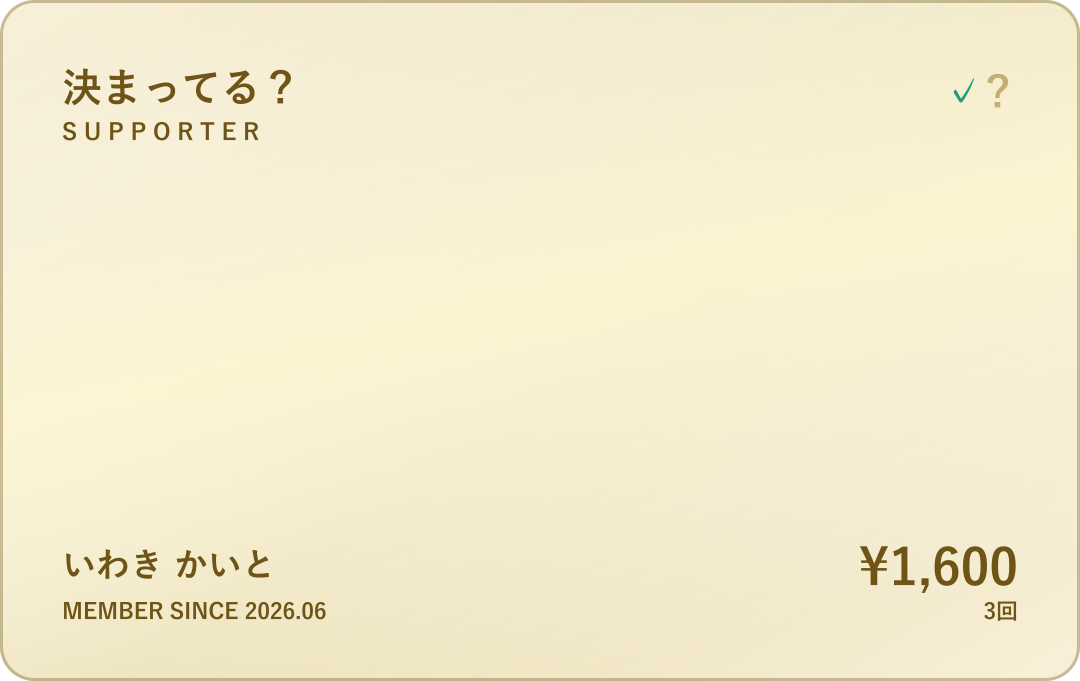
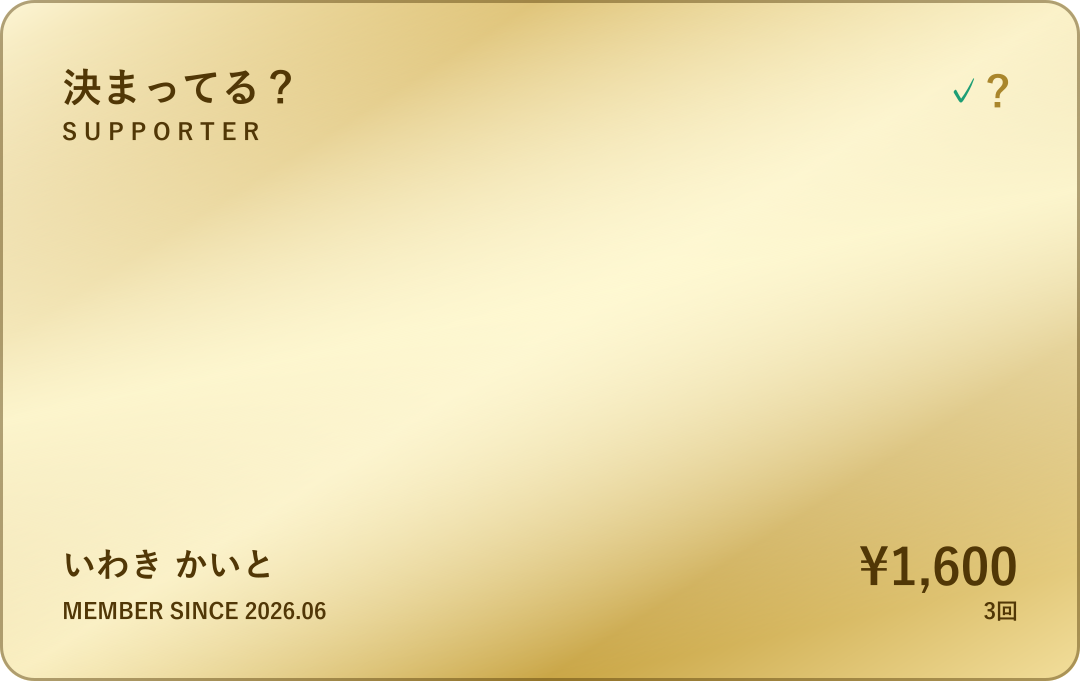
ゴールドを金属らしくする（v0.21.1）
ノーマルとの違いが分かりにくかった。彩度を上げるだけでは
「黄色い紙」にしかならない。金属に見えるのは色そのものではなく、
明と暗が何度か折り返すところなので、紙の濃淡を1回から4回に増やした
（明→暗→明→暗→明）。箔も濃くして、紙との差を広げている。

ノーマルとの隔たりは ΔE 5.8（並べないと分からない）から 30 前後まで開いた。

暗い帯は斜めに走るので、字のある四隅にはかからない。実際に描いて
地の色を拾い、名前のうしろ rgb(249,238,196)、金額のうしろ
rgb(220,192,110)、合印のうしろ rgb(250,242,202) を確認した。
箔の比は最も暗いところでも 4.71、字の乗る場所では 6.22〜9.51。

紙の色数が段ごとに違うので、決め打ちをやめて、渡された並びを
等間隔に置く形にした。画面と書き出す画像の両方で同じ並びを使う。

iPhone の幅で、表・裏とも新しい紙になっていることを確かめた。

diff --git a/app/src/App.jsx b/app/src/App.jsx
@@ -120,17 +120,28 @@ const repeatAfter = (y, m, d, every, spanMonths, dows) => {
 // 紙と箔の組み合わせで段を作る。黒い紙に金の箔押しは実在する上等な印刷で、
 // 「静かな文房具」の中にちゃんと居場所がある。
 // 色は測って決めた。どの紙の上でも箔の文字が 4.5 を下回らないこと。
+//
+// paper は斜めに並べる色の並び。等間隔に置く。
+// ノーマルと黒は3つ（明→暗→明）で、紙を平らな一色に見せないための濃淡。
+// ゴールドだけ5つにしてある。濃淡を一度きりにすると、彩度を上げても
+// 「黄色い紙」にしかならなかった。金属に見えるのは色ではなく、
+// 明と暗が何度か折り返すところなので、明→暗→明→暗→明 と振っている。
+// 暗い帯は斜めに走って字のある四隅を外れる（実際に描いて拾った地の色は
+// 名前のうしろ rgb(249,238,196)、金額のうしろ rgb(220,192,110)）。
 const CARD_TIERS = [
   { key: 'normal', min: 0, name: 'ノーマル',
-    paper: ['#F3EEE2', '#E7DFCE'], foil: '#6B582F', mark: '#C8BFA6',
+    paper: ['#F3EEE2', '#E7DFCE', '#F3EEE2'], foil: '#6B582F', mark: '#C8BFA6',
     sheen: 'rgba(255,252,240,.72)', edge: 'rgba(107,88,47,.3)' },
   { key: 'gold', min: 1000, name: 'ゴールド',
-    paper: ['#F8F0D9', '#EADFB4'], foil: '#6E5416', mark: '#C4AE72',
-    sheen: 'rgba(255,248,214,.82)', edge: 'rgba(110,84,22,.34)' },
+    paper: ['#FDF6D6', '#D9B85F', '#F7E8AC', '#C9A544', '#F2DE9B'], foil: '#513706', mark: '#A9862C',
+    sheen: 'rgba(255,250,214,.9)', edge: 'rgba(81,55,6,.44)' },
   { key: 'black', min: 3000, name: 'ブラック',
-    paper: ['#2B2823', '#1B1915'], foil: '#D8BC72', mark: '#7C6E4C',
+    paper: ['#2B2823', '#1B1915', '#2B2823'], foil: '#D8BC72', mark: '#7C6E4C',
     sheen: 'rgba(255,240,196,.30)', edge: 'rgba(216,188,114,.38)' },
 ];
+// 色の並びを、等間隔に置いたグラデーションにする
+const paperStops = (paper) =>
+  paper.map((c, i) => `${c} ${Math.round((i * 100) / (paper.length - 1))}%`).join(', ');
 // 合計金額から段を決める。境目はその額に「達したら」上がる。
 const tierFor = (total) => {
   let out = CARD_TIERS[0];
@@ -1218,7 +1229,6 @@ export default class App extends React.Component {
       // 文字は紙より暗い真鍮色で、下に薄い明かりを1本入れて「沈んでいる」ようにする。
       // 段によって紙と箔が変わる。合計金額で決まる。
       const tier = tierFor(total);
-      const [PAPER, PAPER2] = tier.paper;
       const foil = tier.foil;
       v.cardTierName = tier.name;
       v.cardMarkColor = tier.mark;
@@ -1241,7 +1251,7 @@ export default class App extends React.Component {
         position:'absolute', inset:0, borderRadius:18, padding:'20px 22px', overflow:'hidden',
         backfaceVisibility:'hidden', WebkitBackfaceVisibility:'hidden',
         transition:`opacity 0s linear ${HALF}s`,
-        background:`linear-gradient(150deg, ${PAPER} 0%, ${PAPER2} 55%, ${PAPER} 100%)`,
+        background:`linear-gradient(150deg, ${paperStops(tier.paper)})`,
         border:'1px solid '+tier.edge,
         boxShadow:'0 14px 34px rgba(38,37,31,.18), inset 0 1px 0 rgba(255,255,255,.55)' };
       v.cardFaceStyle = { ...face, opacity: st.cardBack ? 0 : 1 };

diff --git a/app/src/sharecard.js b/app/src/sharecard.js
@@ -277,15 +277,14 @@ export function drawSupporterCard({ owner, since, total, times, paper, foil, mar
   const ctx = c.getContext('2d');
 
   // 段ごとの紙と箔。渡されなければノーマル。
-  const PAPER = (paper && paper[0]) || '#F3EEE2';
-  const PAPER2 = (paper && paper[1]) || '#E7DFCE';
+  const STOPS = (paper && paper.length ? paper : ['#F3EEE2', '#E7DFCE', '#F3EEE2']);
   const FOIL = foil || '#6B582F';
 
-  // 紙。斜めに濃淡をつけて、平らな一色に見せない
+  // 紙。斜めに濃淡をつけて、平らな一色に見せない。
+  // 色の数は段によって違う（ゴールドは明暗を何度か折り返して金属に見せる）ので、
+  // 決め打ちせず、渡された並びを等間隔に置く。
   const g = ctx.createLinearGradient(0, 0, W, H);
-  g.addColorStop(0, PAPER);
-  g.addColorStop(0.55, PAPER2);
-  g.addColorStop(1, PAPER);
+  STOPS.forEach((c, i) => g.addColorStop(i / (STOPS.length - 1), c));
   ctx.fillStyle = g;
   ctx.fillRect(0, 0, W, H);
 

diff --git a/app/src/notices.js b/app/src/notices.js
@@ -9,7 +9,7 @@ export const KIND_INFO = 'info';
 // version はそのお知らせを出し始めた版。初回起動の人には出さない。
 export const RELEASE_NOTES = [
   {
-    version: '0.21.0',
+    version: '0.21.1',
     title: 'サポーターカードに段ができました',
     body: '応援してくださった合計に応じて、カードの紙と箔が変わります。ノーマル（生成りの紙に真鍮）、¥1,000 からゴールド、¥3,000 からブラックの3段です。カードの下に、次の段まであといくらかを出しています。段が上がっても機能は増えません。見た目だけです。',
   },
